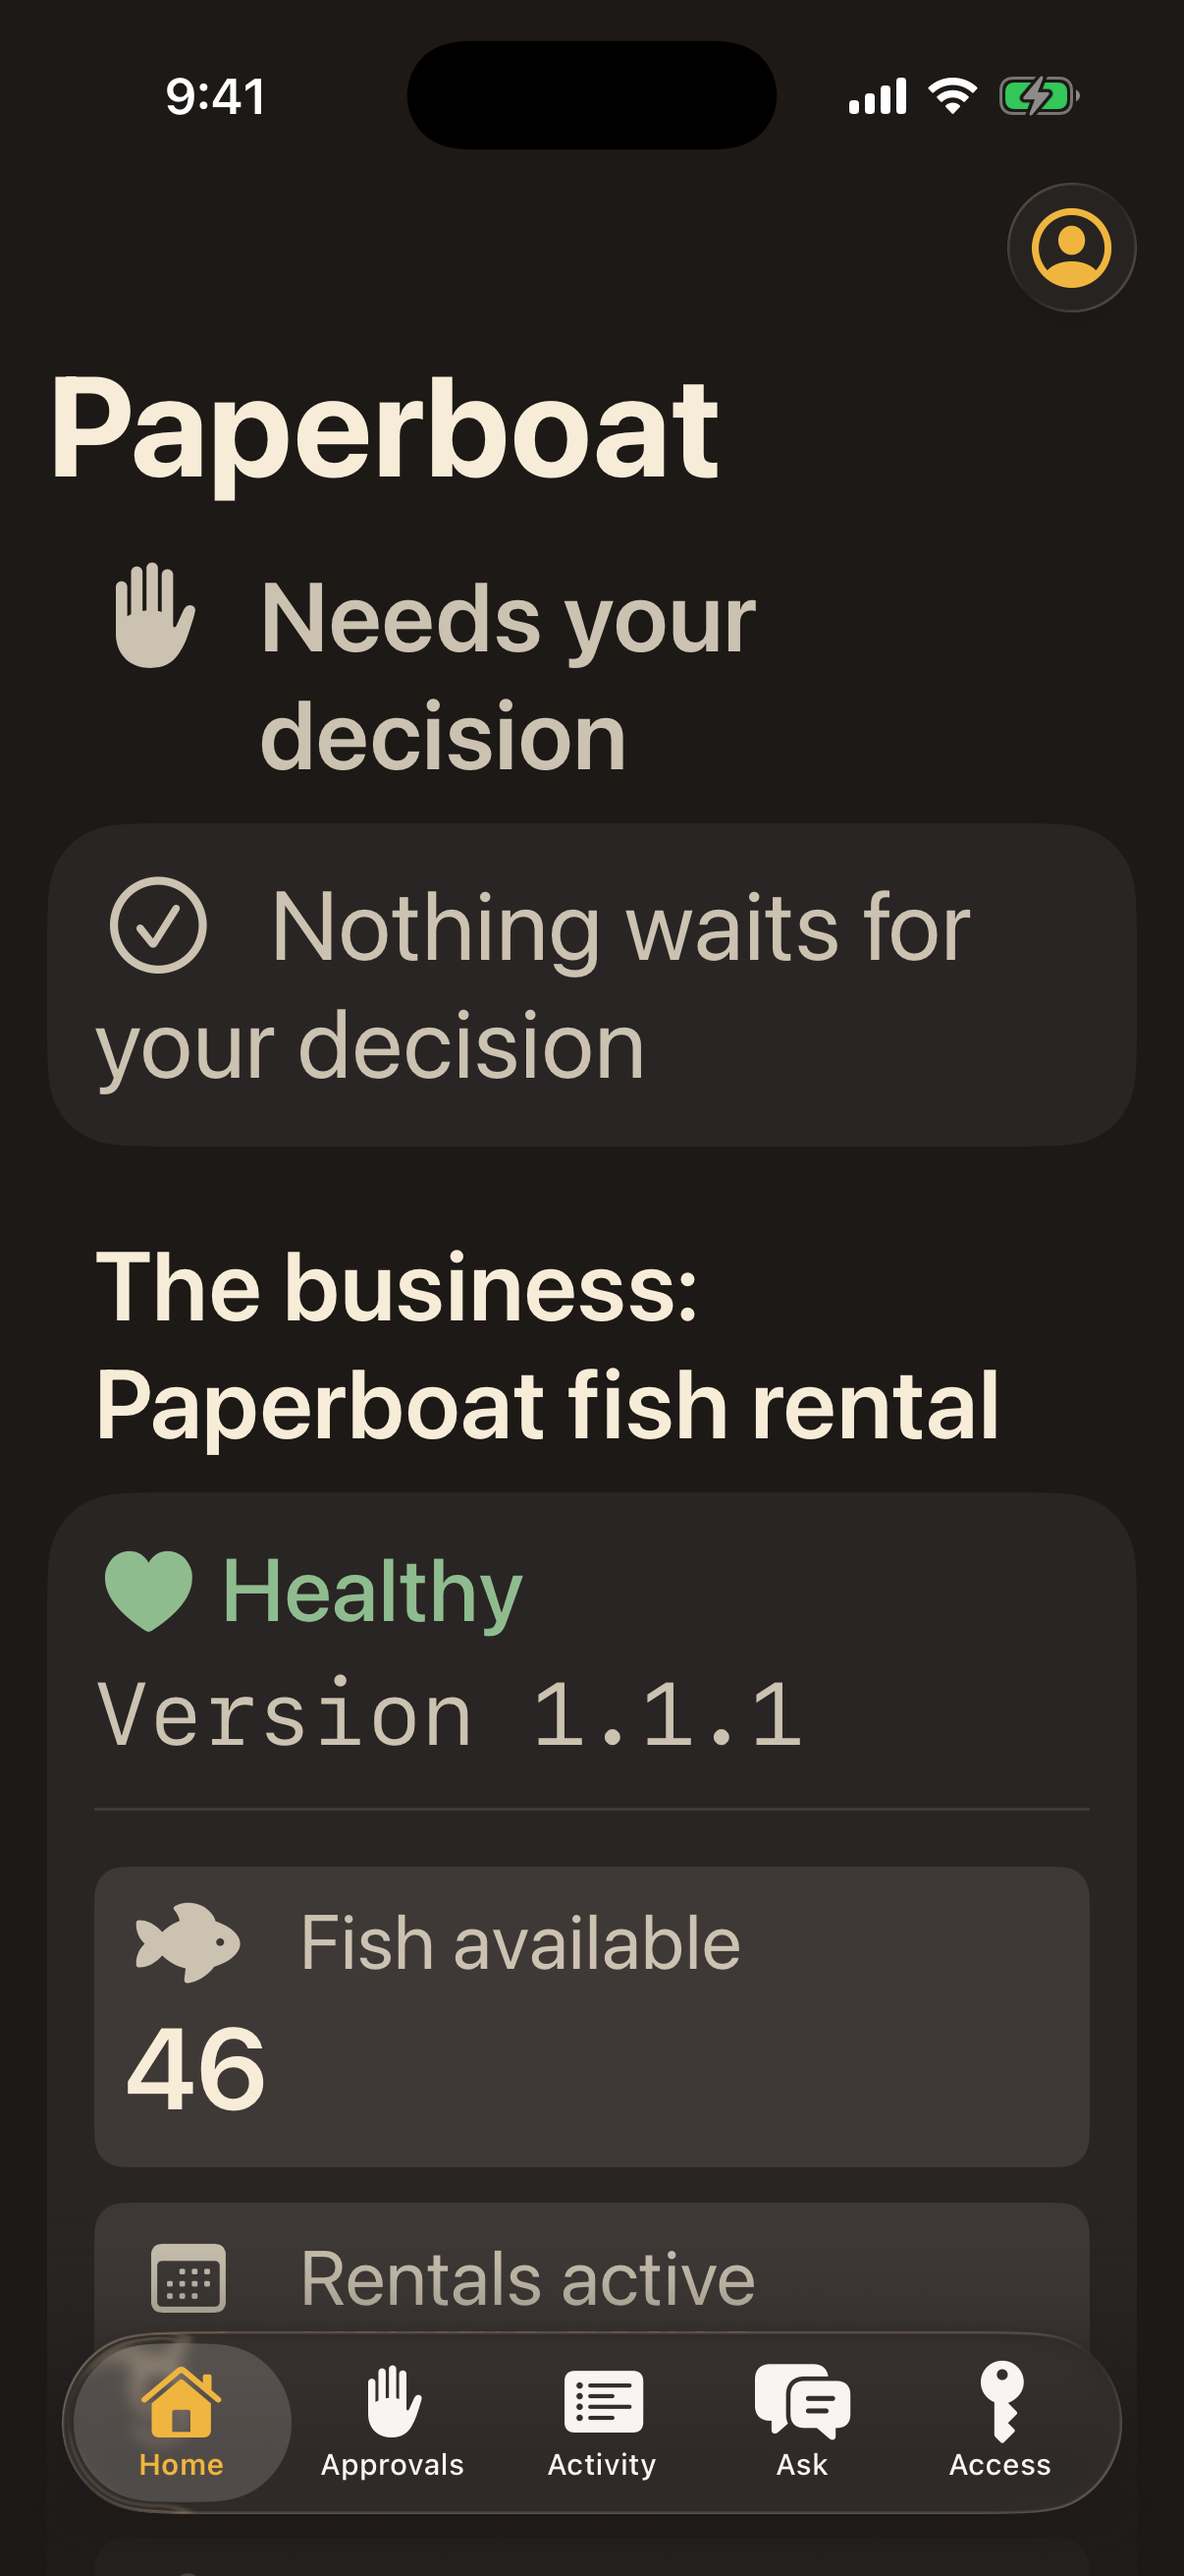
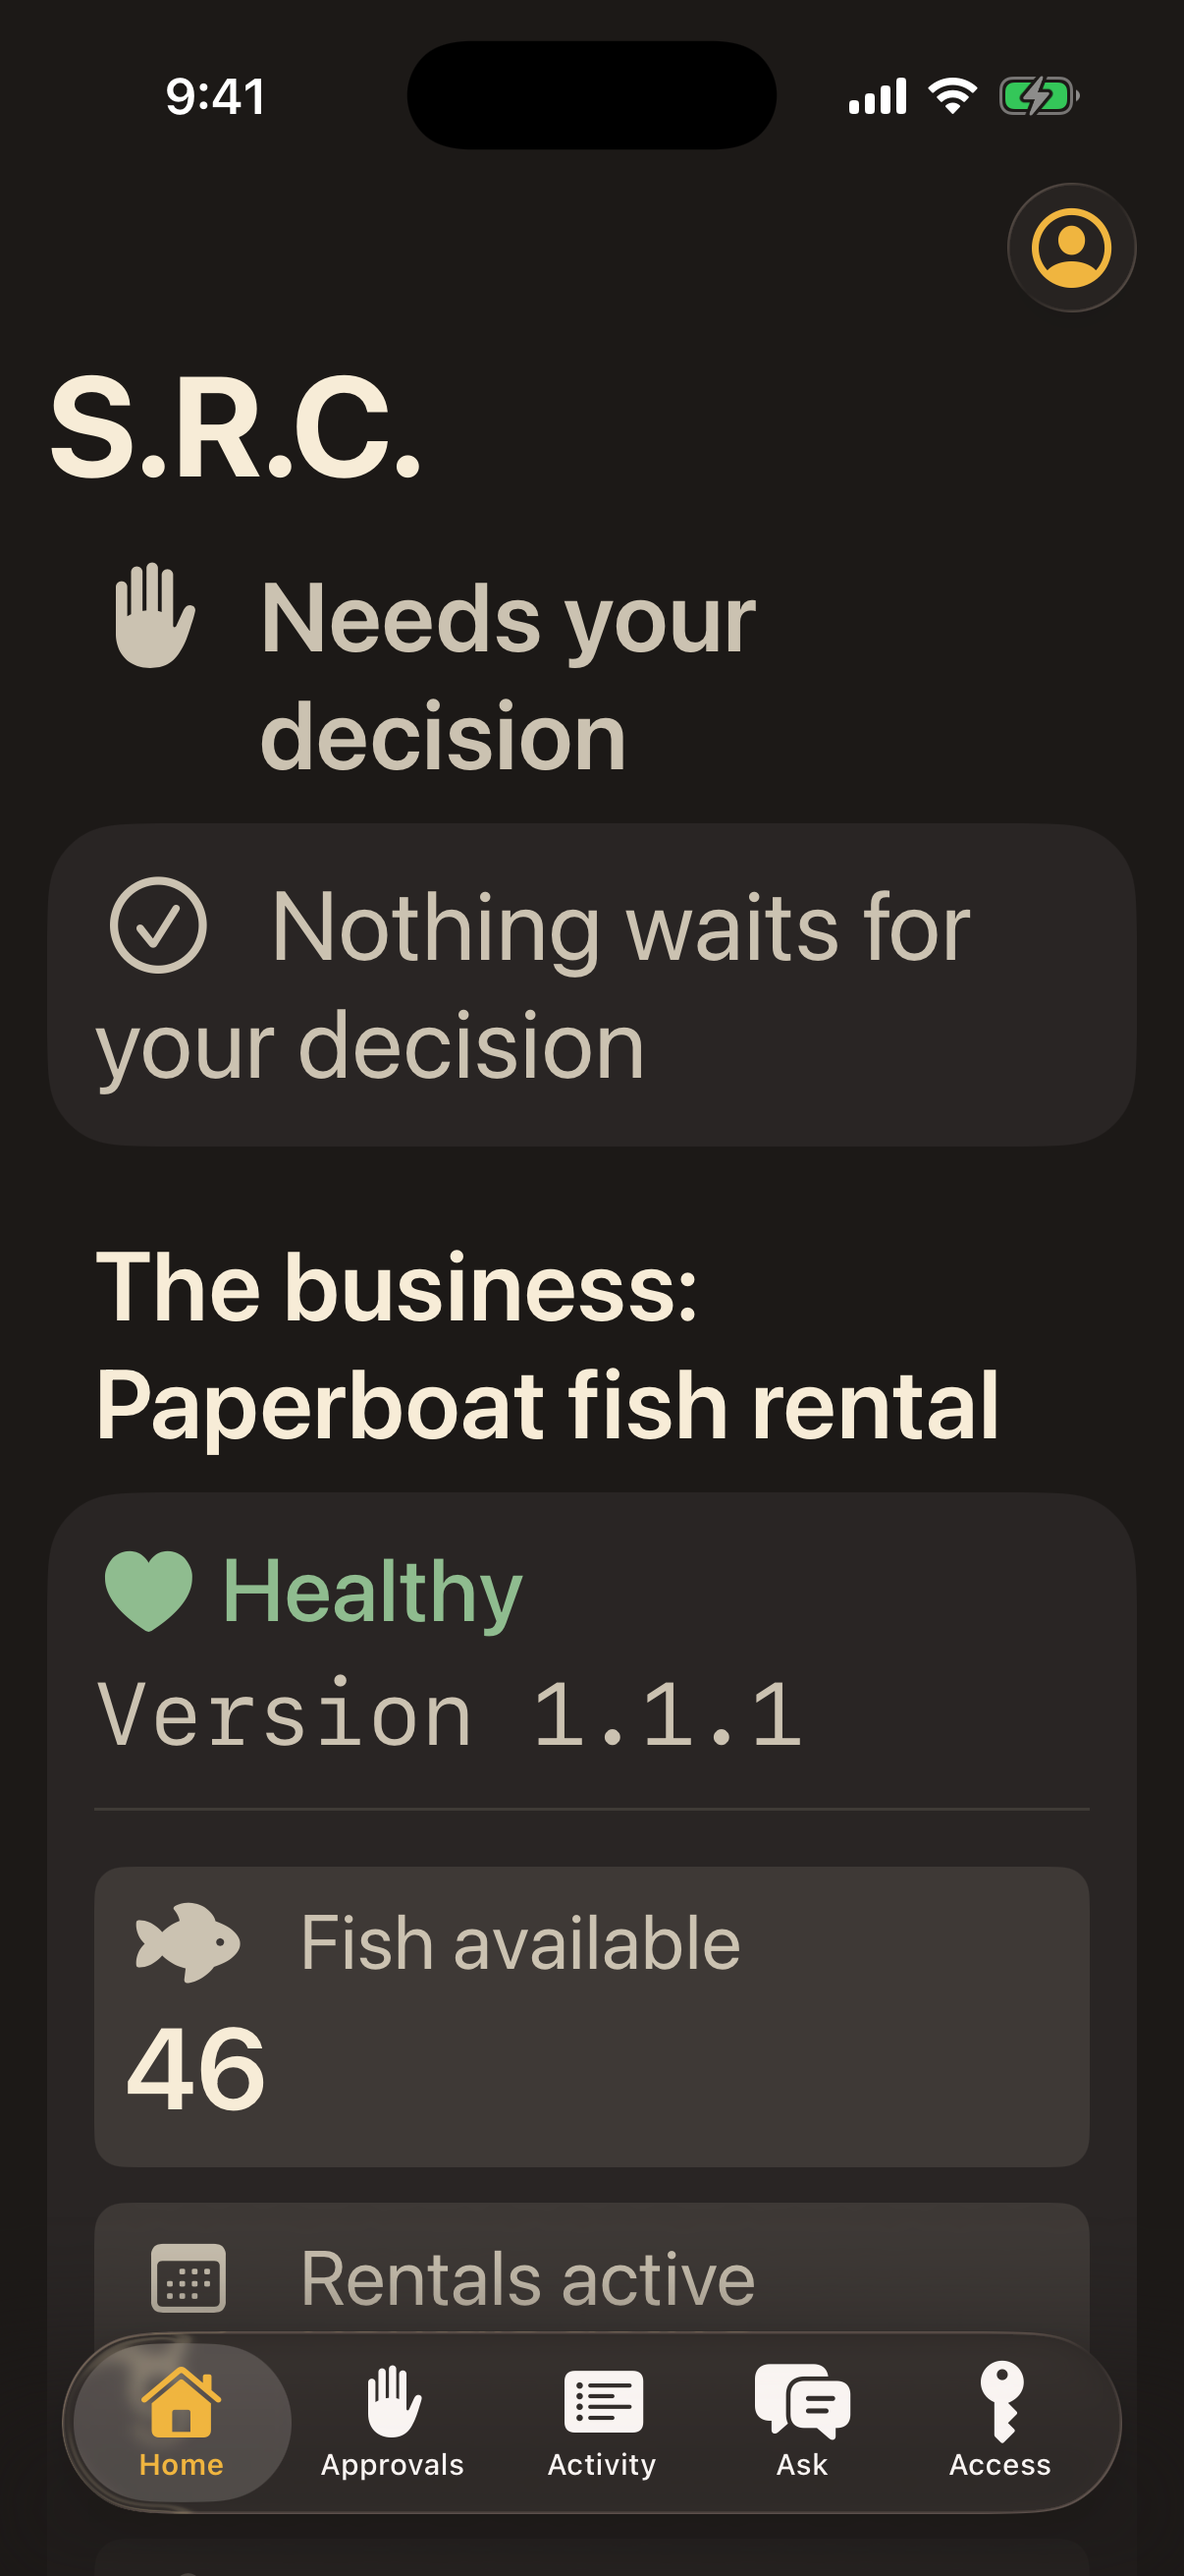
Rename the iOS app to S.R.C.
The name under the icon, the Home title and the permission text say S.R.C. The Xcode target, scheme and module are SRC and SRCTests, the entry file is SRCApp.swift, and the bundle identifier is dev.clanker.src. The Keychain service follows the identifier, so a person signs in again after the update. The screenshot script selects its work items by state and kind from the API.

Changed region(s): [[0.0307, 0.1236, 0.6136, 0.2162]]

diff --git a/ios/App/Views/SettingsView.swift b/ios/App/Views/SettingsView.swift
@@ -53,8 +53,8 @@ struct SettingsView: View {
           HStack(spacing: 12) {
             ProductMark(size: 44)
             Text(
-              "Paperboat Manager shows how the fish rental business runs and lets you decide "
-                + "on the work that S.R.C. (Site Reliability Clanker) proposes.")
+              "This app shows how Paperboat, the fish rental business, runs and lets you "
+                + "decide on the work that S.R.C. (Site Reliability Clanker) proposes.")
             .font(.callout)
           }
         }

diff --git a/ios/App/Core/TokenStore.swift b/ios/App/Core/TokenStore.swift
@@ -24,7 +24,7 @@ struct KeychainError: Error, Equatable, LocalizedError {
 /// The token store of the app: generic passwords in the Keychain, which only this app on
 /// this phone can read, and only while the phone is unlocked.
 struct KeychainTokenStore: TokenStore {
-  static let service = "dev.clanker.paperboat-manager.sign-in-token"
+  static let service = "dev.clanker.src.sign-in-token"
 
   private func query(_ server: String) -> [CFString: Any] {
     [

diff --git a/ios/Tests/SignInSupport.swift b/ios/Tests/SignInSupport.swift
@@ -1,7 +1,7 @@
 import Foundation
 import Testing
 
-@testable import PaperboatManager
+@testable import SRC
 
 /// A token store in memory. `failure` makes every operation fail, like a locked Keychain.
 final class MemoryTokenStore: TokenStore, @unchecked Sendable {

diff --git a/ios/Tests/PaletteTests.swift b/ios/Tests/PaletteTests.swift
@@ -1,7 +1,7 @@
 import Foundation
 import Testing
 
-@testable import PaperboatManager
+@testable import SRC
 
 /// The contrast ratio of WCAG 2 between two colours, from 1 to 21.
 private func contrast(_ first: PaletteColor, _ second: PaletteColor) -> Double {

diff --git a/ios/App/Views/HomeView.swift b/ios/App/Views/HomeView.swift
@@ -15,7 +15,7 @@ struct HomeView: View {
           }
         }
     }
-    .navigationTitle("Paperboat")
+    .navigationTitle("S.R.C.")
     .toolbar {
       ToolbarItem(placement: .topBarTrailing) { AccountButton() }
     }

diff --git a/ios/Tests/StubProtocol.swift b/ios/Tests/StubProtocol.swift
@@ -1,6 +1,6 @@
 import Foundation
 
-@testable import PaperboatManager
+@testable import SRC
 
 /// Answers requests of a URLSession from memory. Each test uses its own host name, so tests
 /// can run in parallel.

diff --git a/ios/Tests/Fixtures.swift b/ios/Tests/Fixtures.swift
@@ -1,7 +1,7 @@
 import Foundation
 import Testing
 
-@testable import PaperboatManager
+@testable import SRC
 
 /// Loads the JSON captured from the live control plane and from Paperboat.
 enum Fixture {

diff --git a/ios/Tests/DecodingTests.swift b/ios/Tests/DecodingTests.swift
@@ -1,7 +1,7 @@
 import Foundation
 import Testing
 
-@testable import PaperboatManager
+@testable import SRC
 
 @Suite("Decoding of the fixtures captured from the live servers")
 struct DecodingTests {

diff --git a/ios/App/SRCApp.swift b/ios/App/SRCApp.swift
@@ -1,7 +1,7 @@
 import SwiftUI
 
 @main
-struct PaperboatManagerApp: App {
+struct SRCApp: App {
   @State private var app = AppModel(options: LaunchOptions.read())
 
   init() {

diff --git a/ios/Tests/LogicTests.swift b/ios/Tests/LogicTests.swift
@@ -1,7 +1,7 @@
 import Foundation
 import Testing
 
-@testable import PaperboatManager
+@testable import SRC
 
 @Suite("Approver progress")
 struct ApproverProgressTests {

diff --git a/ios/Tests/EventStreamTests.swift b/ios/Tests/EventStreamTests.swift
@@ -1,7 +1,7 @@
 import Foundation
 import Testing
 
-@testable import PaperboatManager
+@testable import SRC
 
 @Suite("Server-sent events")
 struct EventStreamTests {

diff --git a/ios/Tests/DeviceSignInTests.swift b/ios/Tests/DeviceSignInTests.swift
@@ -1,7 +1,7 @@
 import Foundation
 import Testing
 
-@testable import PaperboatManager
+@testable import SRC
 
 @Suite("Device flow")
 struct DeviceSignInTests {
